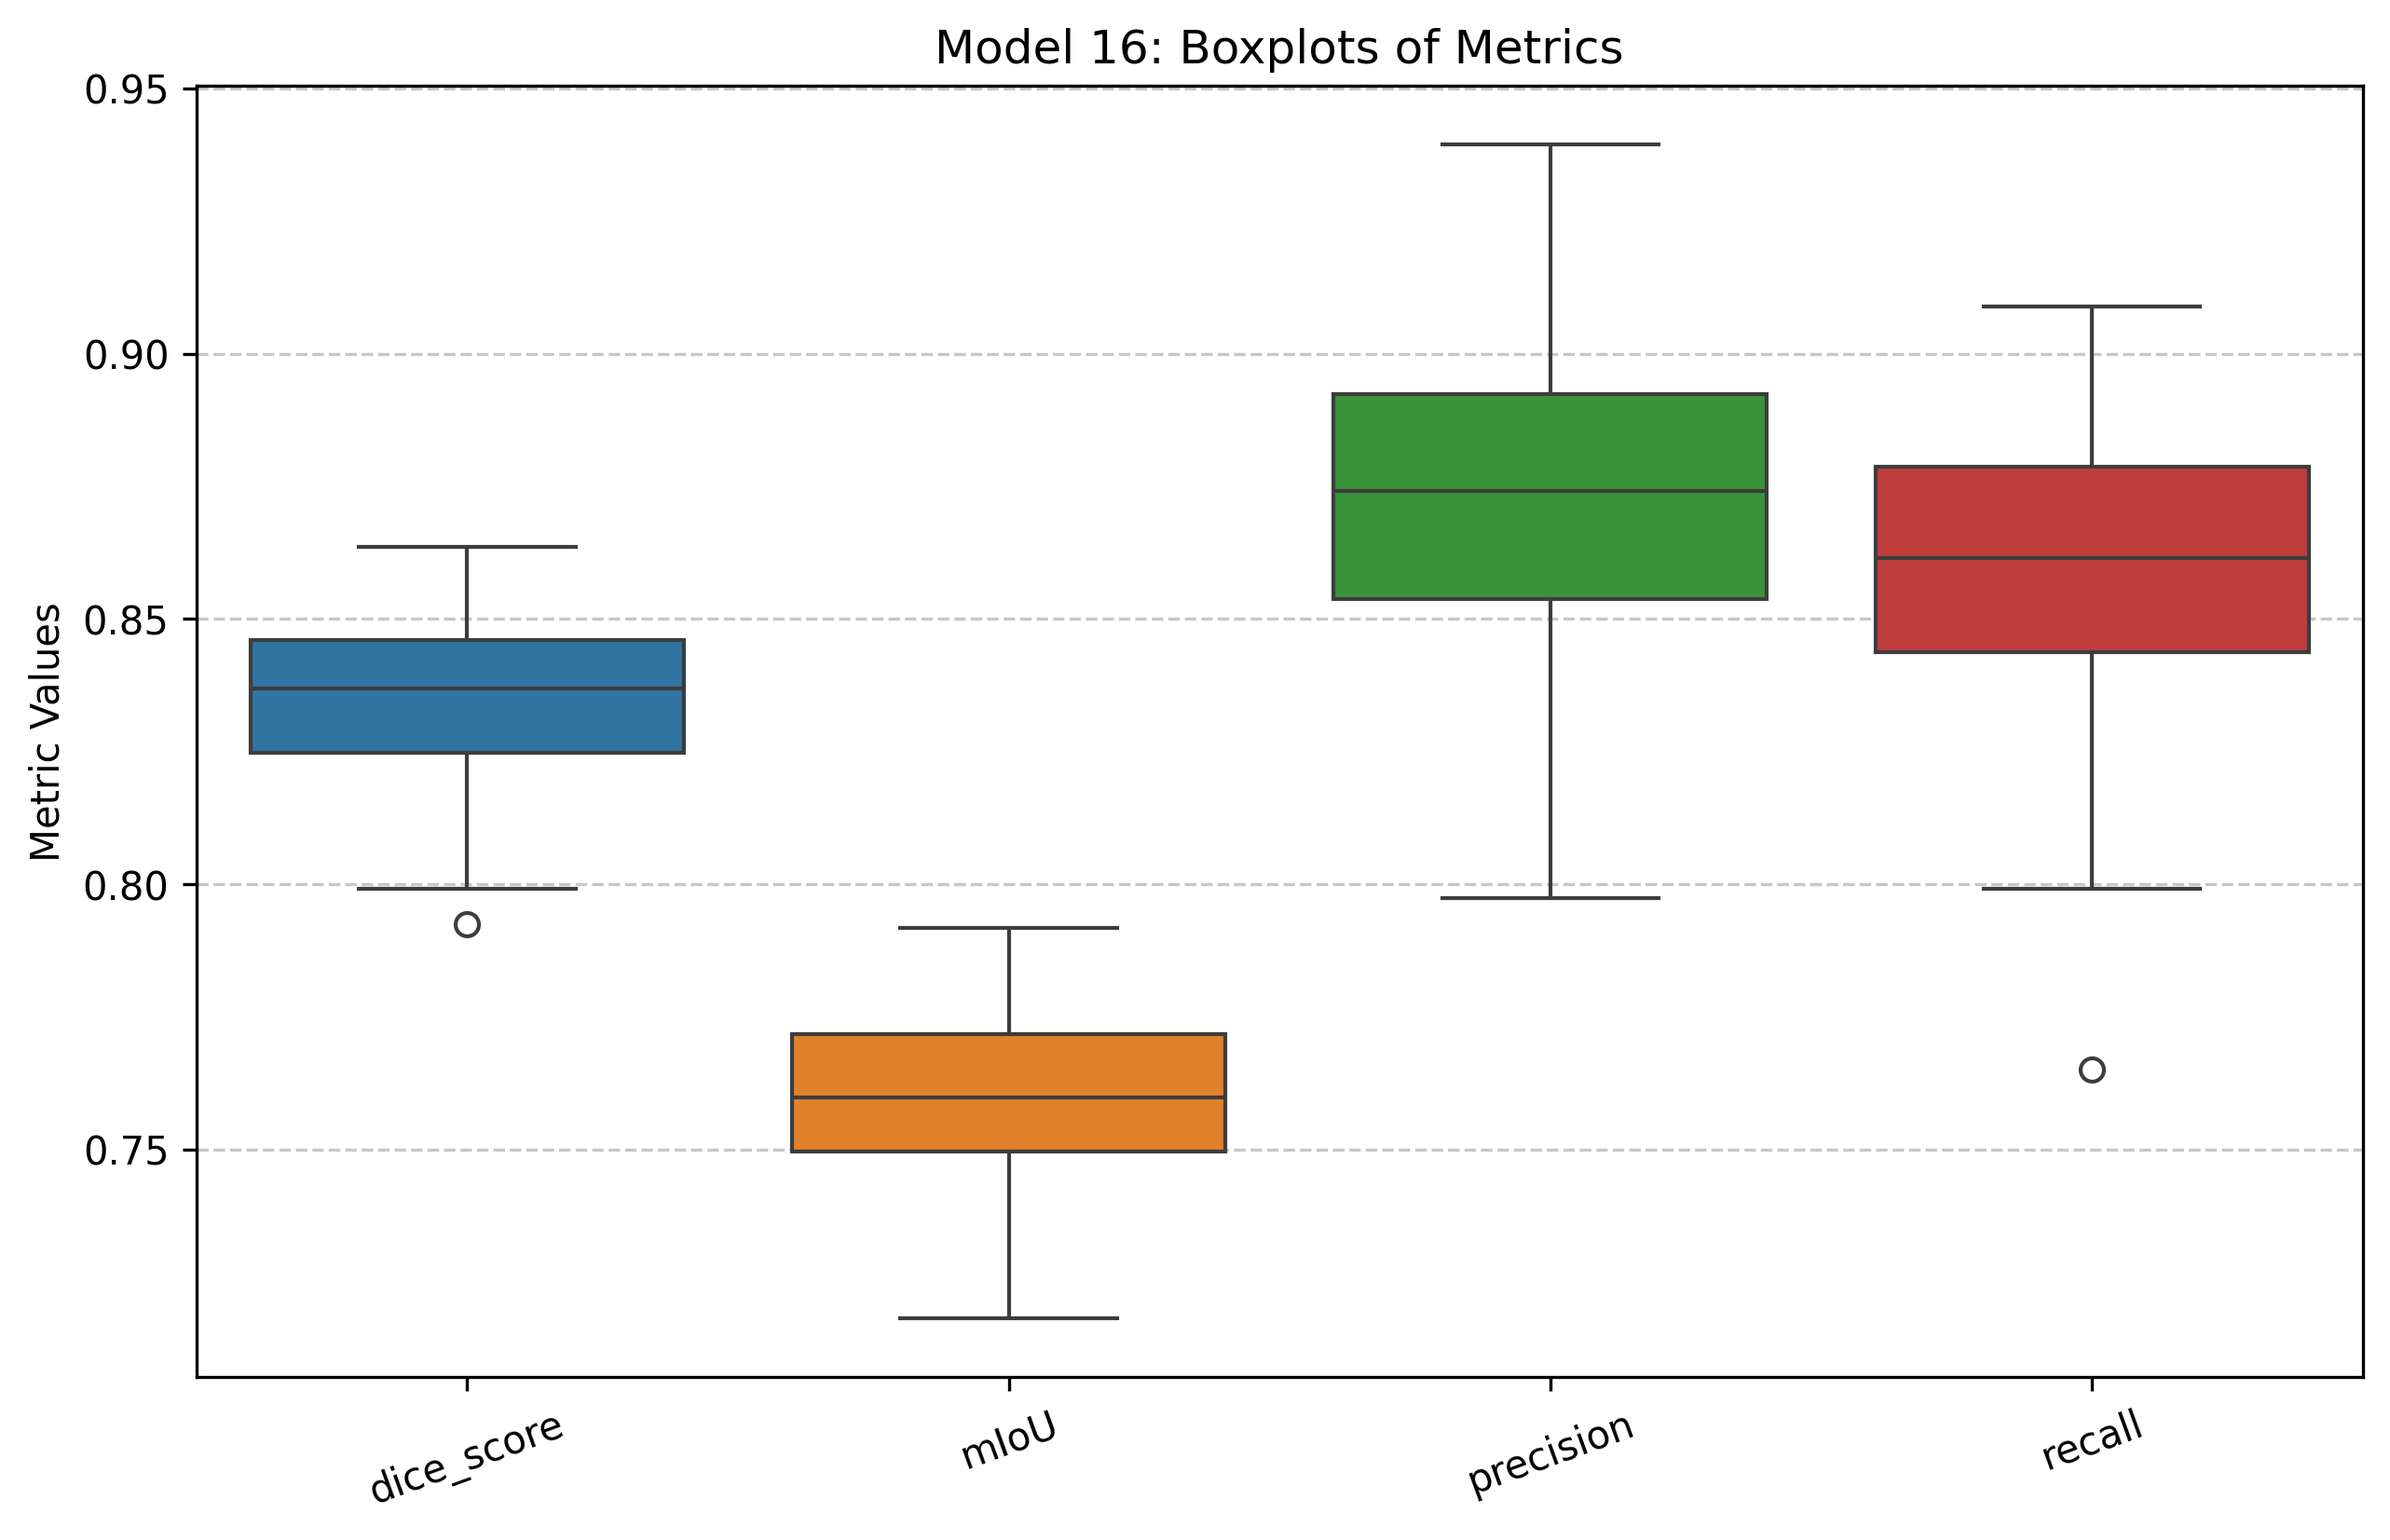
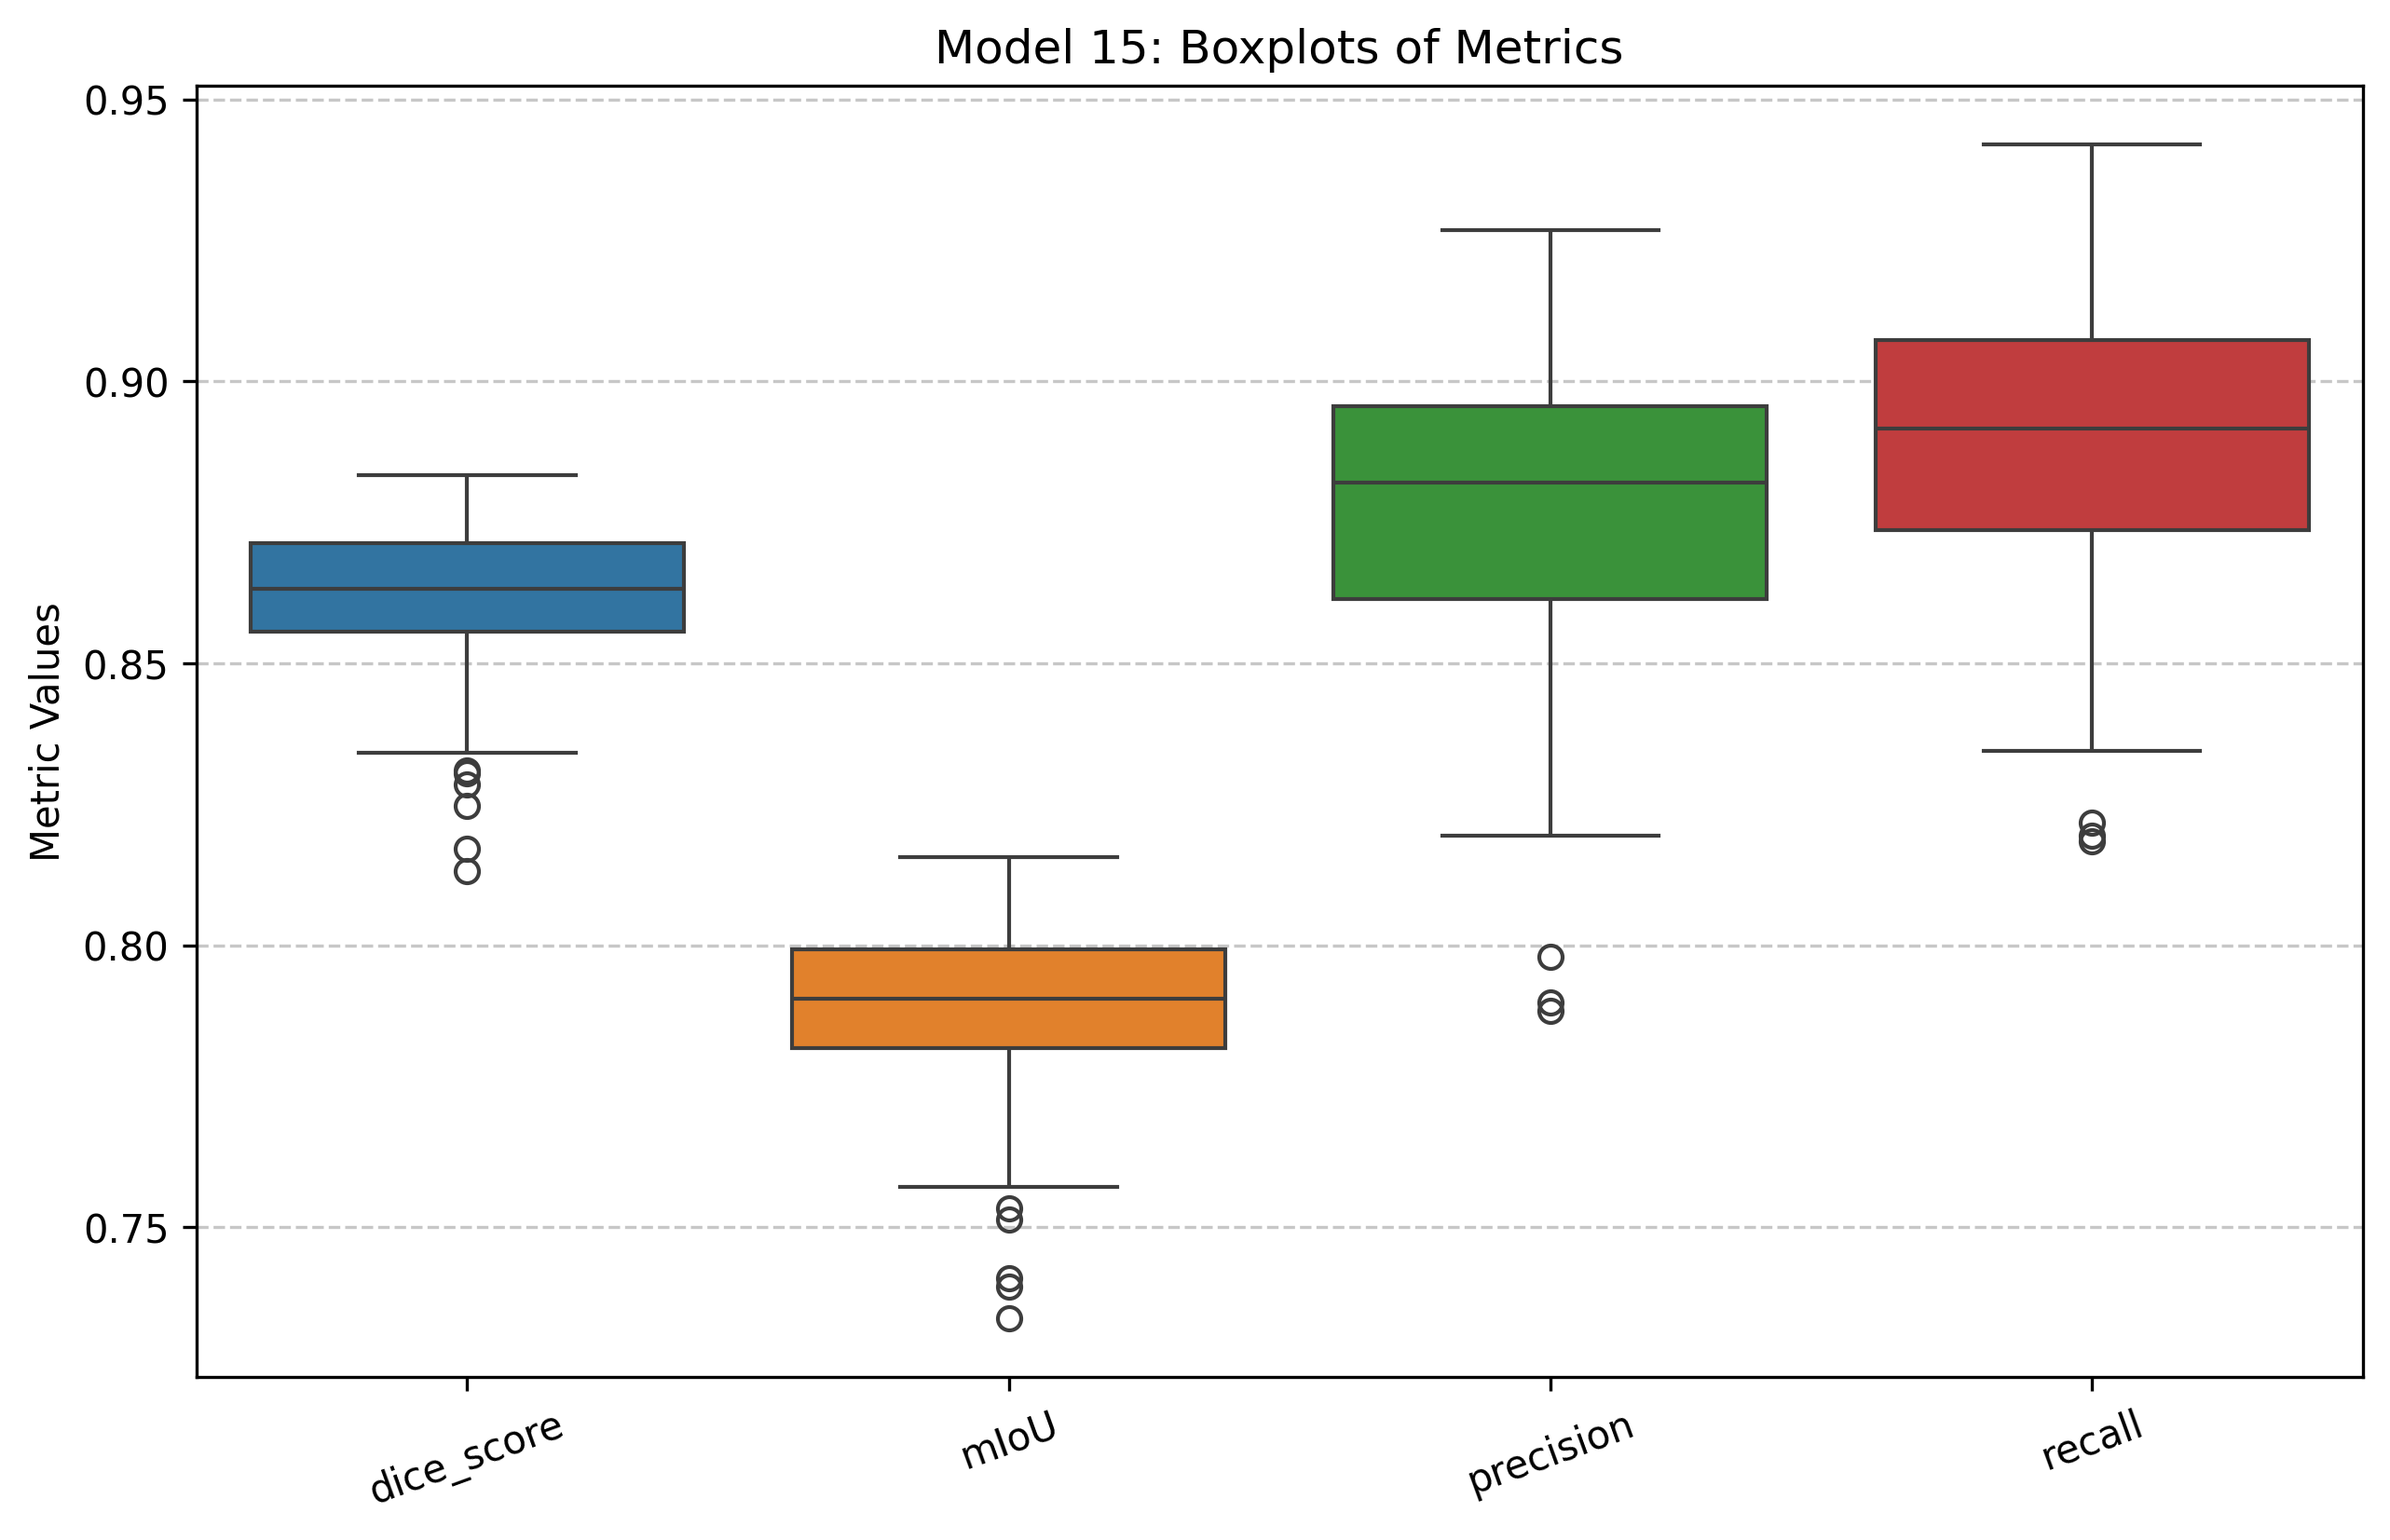
F15 results

diff --git a/analyse_results.py b/analyse_results.py
@@ -4,7 +4,7 @@ import matplotlib.pyplot as plt
 import seaborn as sns
 
 # File path
-file_path = "training_results_F16.txt"
+file_path = "training_results_F15.txt"
 
 # Updated regex pattern to extract the two dictionaries
 dict_pattern = re.compile(r"Run \d+: (\{.*?\}), Credible Intervals: (\{.*?\})")
@@ -66,7 +66,7 @@ def plot_boxplots(metrics, filename="boxplot.png"):
     sns.boxplot(data=[metrics[key] for key in metrics.keys()])
     plt.xticks(ticks=range(len(metrics.keys())), labels=list(metrics.keys()), rotation=20)
     plt.ylabel("Metric Values")
-    plt.title("Model 16: Boxplots of Metrics")
+    plt.title("Model 15: Boxplots of Metrics")
     plt.grid(axis="y", linestyle="--", alpha=0.7)
     # Save the figure
     plt.savefig(filename, bbox_inches="tight", dpi=300)
@@ -121,7 +121,7 @@ def plot_credible_intervals(runs, filename="credible_intervals.png"):
 
     plt.xlabel("Run Number")
     plt.ylabel("Metric Value")
-    plt.title("Model 16: Bayesian Credible Intervals Over Training Runs with Mean Values")
+    plt.title("Model 15: Bayesian Credible Intervals Over Training Runs with Mean Values")
     plt.legend(loc='upper left', bbox_to_anchor=(1.05, 1), borderaxespad=0.)
     plt.grid(True, linestyle="--", alpha=0.7)
     plt.savefig(filename, bbox_inches="tight", dpi=300)
